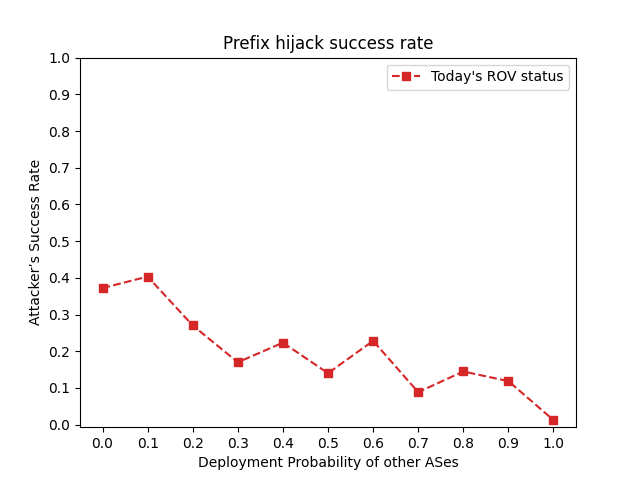
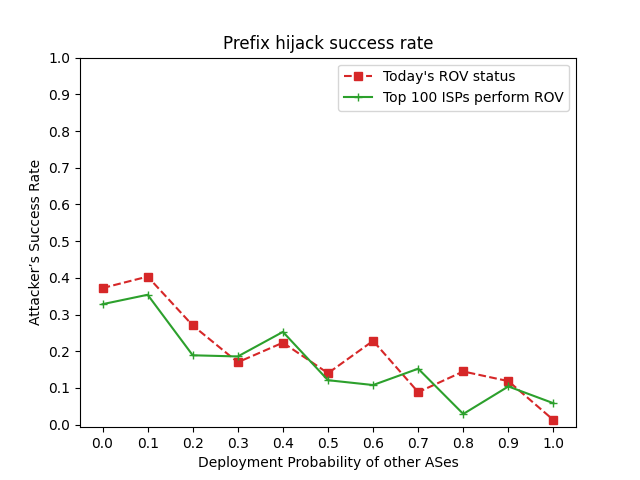
Evaluation code changes + New evaluation figures

diff --git a/evaluation/evaluation.py b/evaluation/evaluation.py
@@ -80,6 +80,30 @@ def today_rov_status_other_random_prop_subprefix_hijacking(other_random_prop_lis
             evaluation_results_dict["today_rov_status_other_random_prop"]["subprefix_hijacking"][str(prop_value)] = avg_impact_estimation_after_hijack
 
 
+def top_isps_rov_other_random_prop_prefix_hijacking(num_of_top_isp_rpki_adopters, other_random_prop_list, evaluation_results_dict):
+    print("### Top ISPs ROV + Other ASes (Prefix Hijacking) ###")
+    print("RPKI Adoption Propability of other ASes | Average Impact Estimation")
+    for prop_value in other_random_prop_list:
+        file_path = "./evaluation_data/prefix-hijacking-random/top-isps-rov/"+str(num_of_top_isp_rpki_adopters)+"-other-random-prop-" + str(prop_value) + ".json"
+        eval_data = read_evaluation_data(file_path)
+        if eval_data:
+            avg_impact_estimation_after_hijack = compute_avg_impact(eval_data)
+            print(str(prop_value) + "  " + str(avg_impact_estimation_after_hijack))
+            evaluation_results_dict["top_isps_rov_other_random_prop"]["prefix_hijacking"][str(prop_value)] = avg_impact_estimation_after_hijack
+
+
+def top_isps_rov_other_random_prop_subprefix_hijacking(num_of_top_isp_rpki_adopters, other_random_prop_list, evaluation_results_dict):
+    print("### Top ISPs ROV + Other ASes (Subprefix Hijacking) ###")
+    print("RPKI Adoption Propability of other ASes | Average Impact Estimation")
+    for prop_value in other_random_prop_list:
+        file_path = "./evaluation_data/subprefix-hijacking-random/top-isps-rov/"+str(num_of_top_isp_rpki_adopters)+"-other-random-prop-" + str(prop_value) + ".json"
+        eval_data = read_evaluation_data(file_path)
+        if eval_data:
+            avg_impact_estimation_after_hijack = compute_avg_impact(eval_data)
+            print(str(prop_value) + "  " + str(avg_impact_estimation_after_hijack))
+            evaluation_results_dict["top_isps_rov_other_random_prop"]["subprefix_hijacking"][str(prop_value)] = avg_impact_estimation_after_hijack
+
+
 if __name__ == '__main__':
     rpki_adoption_propability_list = [0.25, 0.50, 0.75, 1.0]
     num_of_top_isp_rpki_adopters = list(range(0, 101, 10))
@@ -90,4 +114,6 @@ if __name__ == '__main__':
     collateral_benefit_subprefix_hijacking(num_of_top_isp_rpki_adopters, rpki_adoption_propability_list, evaluation_results_dict)
     today_rov_status_other_random_prop_prefix_hijacking(other_random_prop_list, evaluation_results_dict)
     today_rov_status_other_random_prop_subprefix_hijacking(other_random_prop_list, evaluation_results_dict)
+    top_isps_rov_other_random_prop_prefix_hijacking(100, other_random_prop_list, evaluation_results_dict)
+    top_isps_rov_other_random_prop_subprefix_hijacking(100, other_random_prop_list, evaluation_results_dict)
     write_evaluation_results(evaluation_results_dict, "evaluation_results.json")

diff --git a/evaluation/generate_figures.py b/evaluation/generate_figures.py
@@ -80,8 +80,13 @@ def plot_today_rov_status_vs_top_isps_other_random_prop_prefix_hijacking(evaluat
     for item in evaluation_results["today_rov_status_other_random_prop"]["prefix_hijacking"]:
         y1.append(evaluation_results["today_rov_status_other_random_prop"]["prefix_hijacking"][item])
 
+    y2 = []
+    for item in evaluation_results["top_isps_rov_other_random_prop"]["prefix_hijacking"]:
+        y2.append(evaluation_results["top_isps_rov_other_random_prop"]["prefix_hijacking"][item])
+
     plt.figure(3)
     plt.plot(x1, y1, linestyle='dashed', marker='s', color='tab:red', label="Today's ROV status")
+    plt.plot(x1, y2, linestyle='solid', marker='+', color='tab:green', label="Top 100 ISPs perform ROV")
     plt.xticks([v * 0.1 for v in range(0, 11, 1)])
     plt.yticks([v * 0.1 for v in range(0, 11, 1)])
 
@@ -102,8 +107,13 @@ def plot_today_rov_status_vs_top_isps_other_random_prop_subprefix_hijacking(eval
     for item in evaluation_results["today_rov_status_other_random_prop"]["subprefix_hijacking"]:
         y1.append(evaluation_results["today_rov_status_other_random_prop"]["subprefix_hijacking"][item])
 
+    y2 = []
+    for item in evaluation_results["top_isps_rov_other_random_prop"]["subprefix_hijacking"]:
+        y2.append(evaluation_results["top_isps_rov_other_random_prop"]["subprefix_hijacking"][item])
+
     plt.figure(4)
     plt.plot(x1, y1, linestyle='dashed', marker='s', color='tab:red', label="Today's ROV status")
+    plt.plot(x1, y2, linestyle='solid', marker='+', color='tab:green', label="Top 100 ISPs perform ROV")
     plt.xticks([v * 0.1 for v in range(0, 11, 1)])
     plt.yticks([v * 0.1 for v in range(0, 11, 1)])
 
